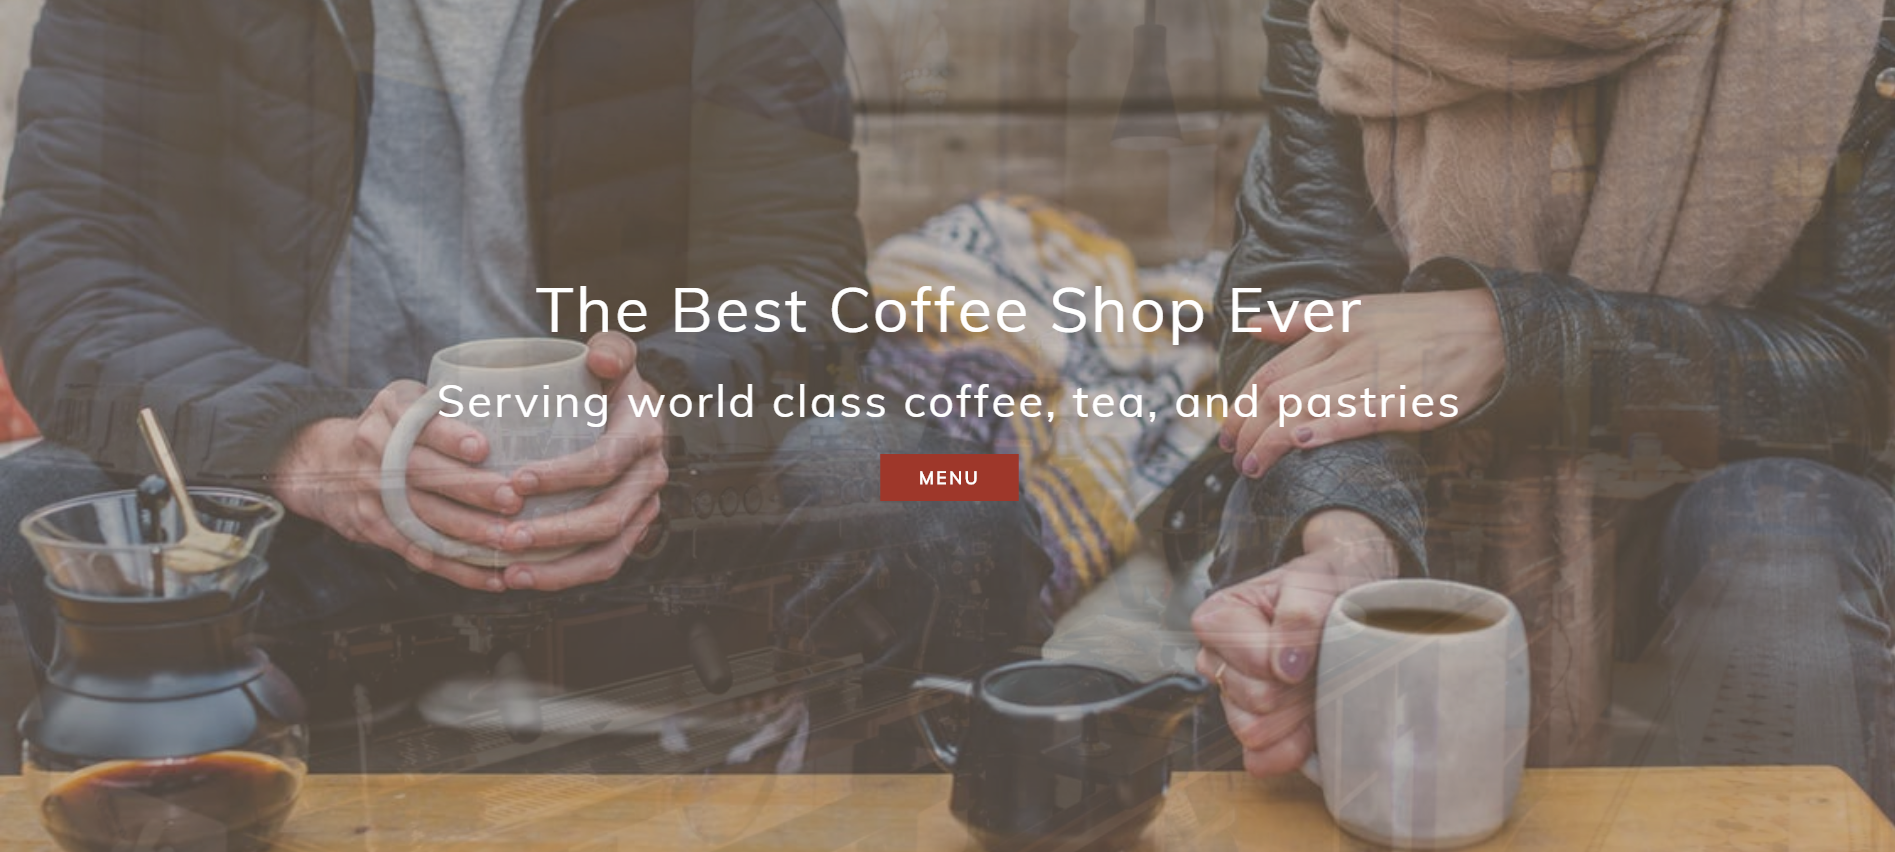
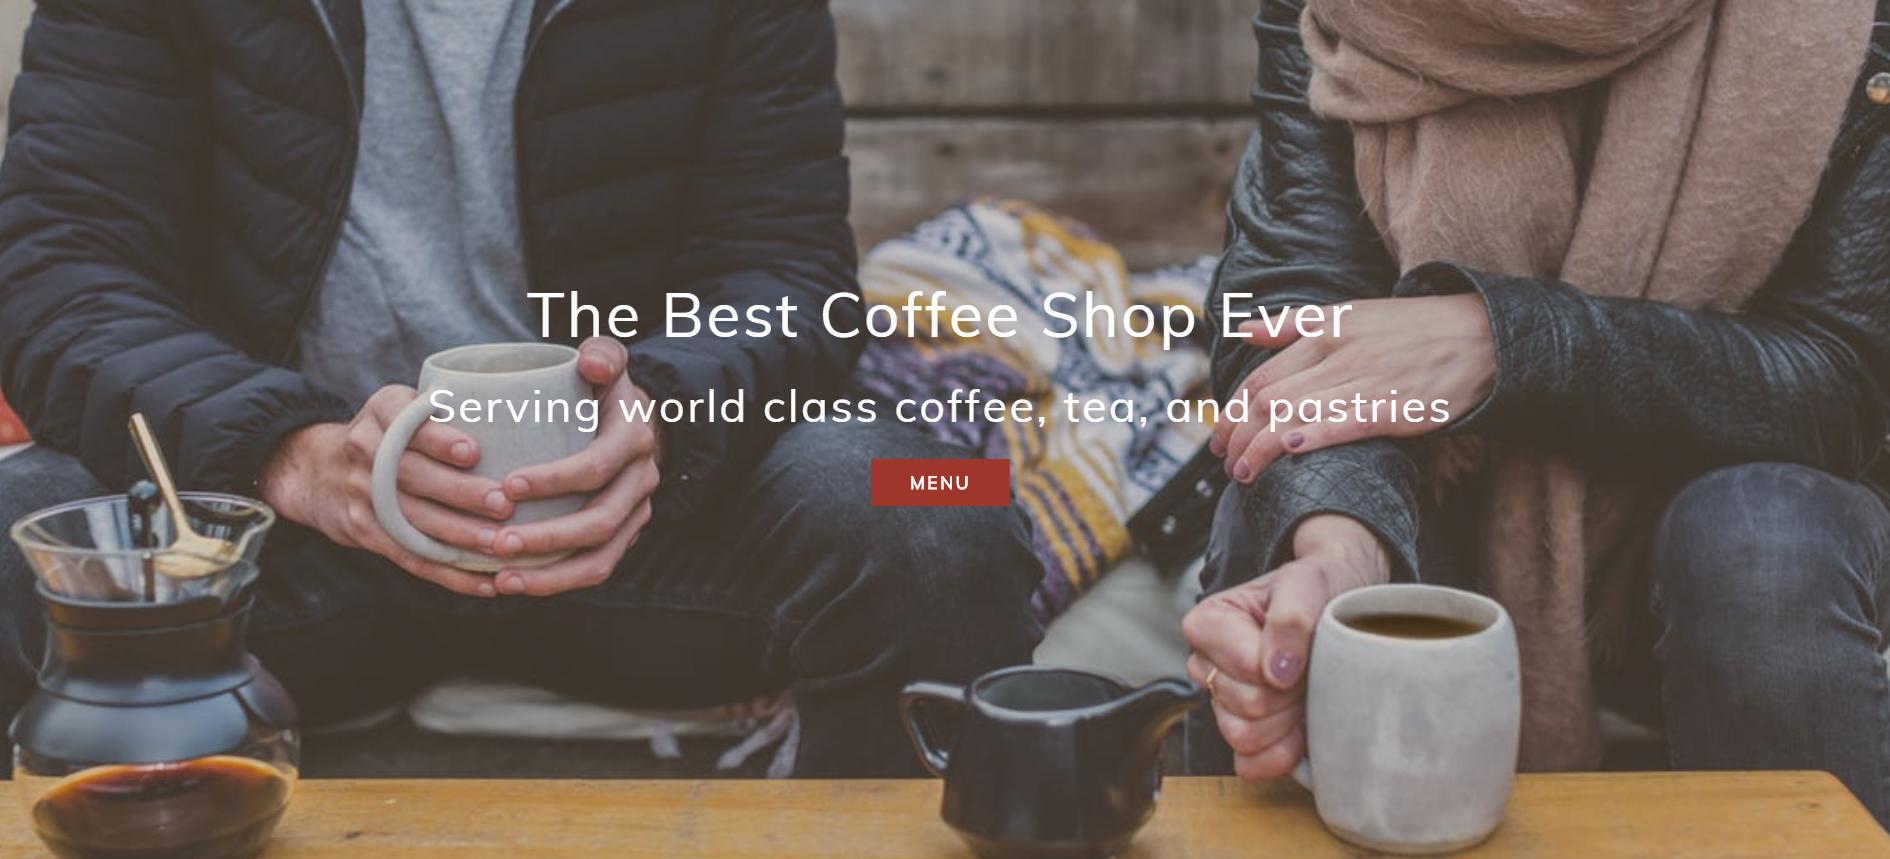
home images changed

diff --git a/app/assets/stylesheets/index.scss b/app/assets/stylesheets/index.scss
@@ -6,7 +6,7 @@ $font: 'Questrial', sans-serif;
 .hero-image {
 	position: relative;
 	height: 70vh;
-	background-image: url("https://images.unsplash.com/photo-1464061884326-64f6ebd57f83?auto=format&fit=crop&w=1050&q=80");
+	background-image: url("https://images.pexels.com/photos/543368/pexels-photo-543368.jpeg?w=1260&h=750&auto=compress&cs=tinysrgb");
     background-size: cover;
     background-position: center;
     background-repeat: no-repeat;
@@ -164,7 +164,7 @@ $font: 'Questrial', sans-serif;
 	position: relative;
 	max-width: 100%;
 	height: 500px;
-	background-image: url("https://images.unsplash.com/photo-1447075431787-68801189fbe2?auto=format&fit=crop&w=1050&q=80&ixid=dW5zcGxhc2guY29tOzs7Ozs%3D");
+	background-image: url("https://images.pexels.com/photos/144251/yosemite-national-park-landscape-california-144251.jpeg?w=1260&h=750&auto=compress&cs=tinysrgb");
     background-size: cover;
     background-position: center;
     background-repeat: no-repeat;
@@ -181,6 +181,7 @@ $font: 'Questrial', sans-serif;
     		color: white;
     		text-align: center;
     		font-family: $font;
+    		font-size: 18px;
     	}
     }
 }
@@ -268,7 +269,7 @@ $font: 'Questrial', sans-serif;
 	}
 
 .content:hover .content-overlay{
-	opacity: 0.9;
+	opacity: 1;
 }
 
 .content-details {
@@ -369,23 +370,63 @@ $font: 'Questrial', sans-serif;
 	}
 }
 
-@media (max-width: 1340px) {
+@media (max-width: 1345px) {
 	.content {
 		width: 100%;
+	}
+
+	.home-portfolio .portfolio-item1, 
+	.home-portfolio .portfolio-item2, 
+	.home-portfolio .portfolio-item3,
+	.content .content-overlay {
+		width: 50%;
+	}
+}
+
+@media (max-width: 1030px) {
+
+	.home-portfolio .portfolio-item1, 
+	.home-portfolio .portfolio-item2, 
+	.home-portfolio .portfolio-item3,
+	.content .content-overlay {
+		width: 65%;
+	}
+}
+
+@media (max-width: 750px) {
+
+	.home-portfolio .portfolio-item1, 
+	.home-portfolio .portfolio-item2, 
+	.home-portfolio .portfolio-item3,
+	.content .content-overlay {
+		width: 80%;
+	}
+}
+
+@media (max-width: 575px) {
+
+	.home-portfolio .portfolio-item1, 
+	.home-portfolio .portfolio-item2, 
+	.home-portfolio .portfolio-item3,
+	.content .content-overlay {
+		width: 97%;
+	}
+}
+
+@media (max-width: 575px) {
+
+	.home-portfolio .portfolio-item1, 
+	.home-portfolio .portfolio-item2, 
+	.home-portfolio .portfolio-item3,
+	.content {
+		height: 225px;
 	}
 }
 
 @media (max-width: 1024px) {
+	.content .content-overlay,
 	.content-details {
-		opacity: 1;
-	}
-
-	.content .content-overlay {
-		opacity: 0.85;
-	}
-
-	.fadeIn-top {
-	    top: 50%;
+		opacity: 0;
 	}
 }
 
